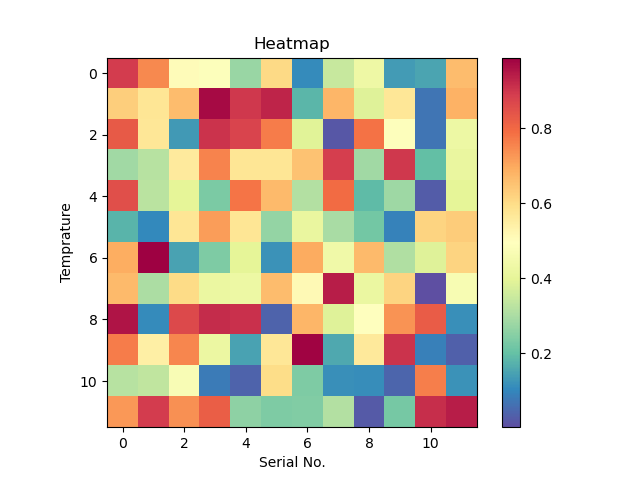
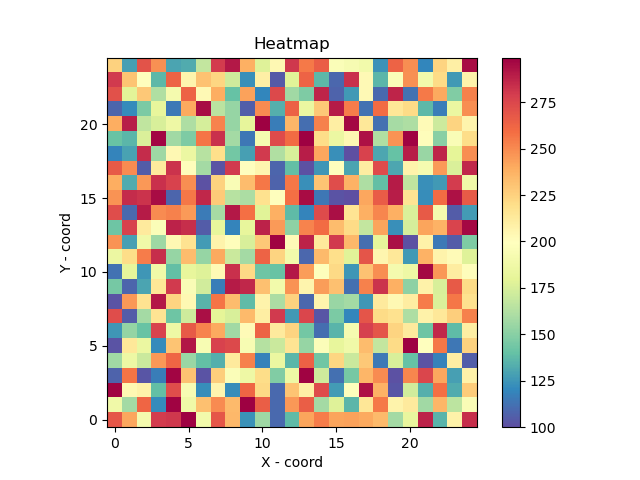
axes normalisation

diff --git a/heatmap/heat_maps_generation.py b/heatmap/heat_maps_generation.py
@@ -1,26 +1,26 @@
 import sys
 import matplotlib
+import numpy as np
 from numpy import random 
 matplotlib.use('Agg')
 
 import matplotlib.pyplot as plt
 
-x = list(range(1,11)) #if x points are not mentioned -> (1,2,3,...)
-y = random.randint(100, 300, size= 10)
-data = [[],[],[],[],[],[],[],[],[],[]]
-data1 = random.rand(12,12)
+x = np.arange(1,26) #if x points are not mentioned -> (1,2,3,...)
+y = np.arange(25,0, -1) #x & y coords
+min_val = 100
+max_val = 300
+data = random.randint(min_val, max_val, size= (25,25)  )
 
-y1 = y
-for i in y1:
-    i = i/3
 
 fig, ax = plt.subplots()
 
-heatmap = plt.imshow(data1, cmap= 'Spectral_r') #cmap = Spectral_r
+heatmap = plt.imshow(data, cmap= 'Spectral_r') #cmap = Spectral_r
 plt.title('Heatmap')
-plt.xlabel('Serial No.')
-plt.ylabel('Temprature')
+plt.xlabel('X - coord')
+plt.ylabel('Y - coord')
 cbar = plt.colorbar(heatmap)
+plt.gca().invert_yaxis()
 
 plt.savefig('/Users/doctorflu/Desktop/Thesis/Thesis-repo/heatmap/test1.png')
 plt.show()
